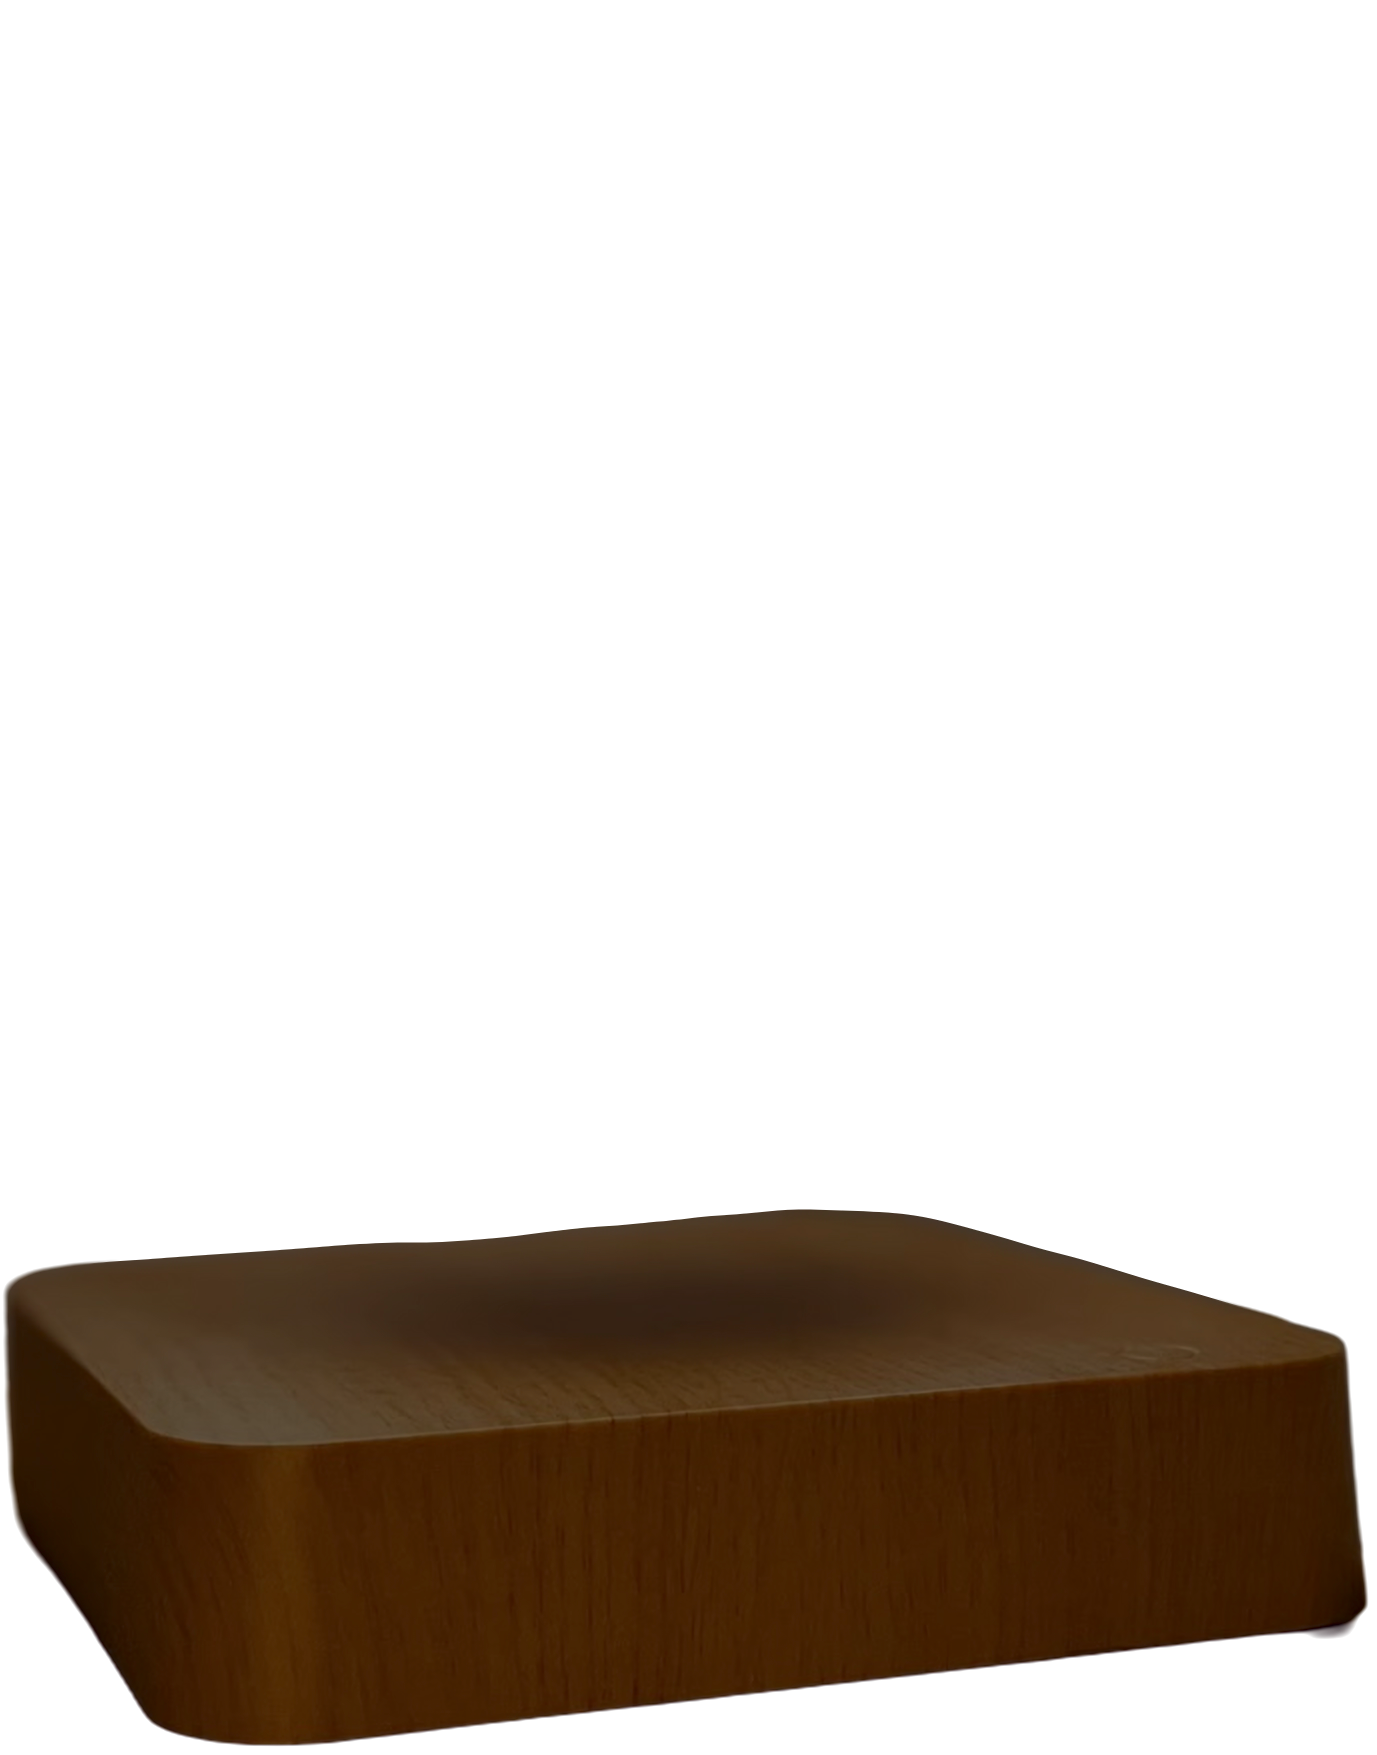
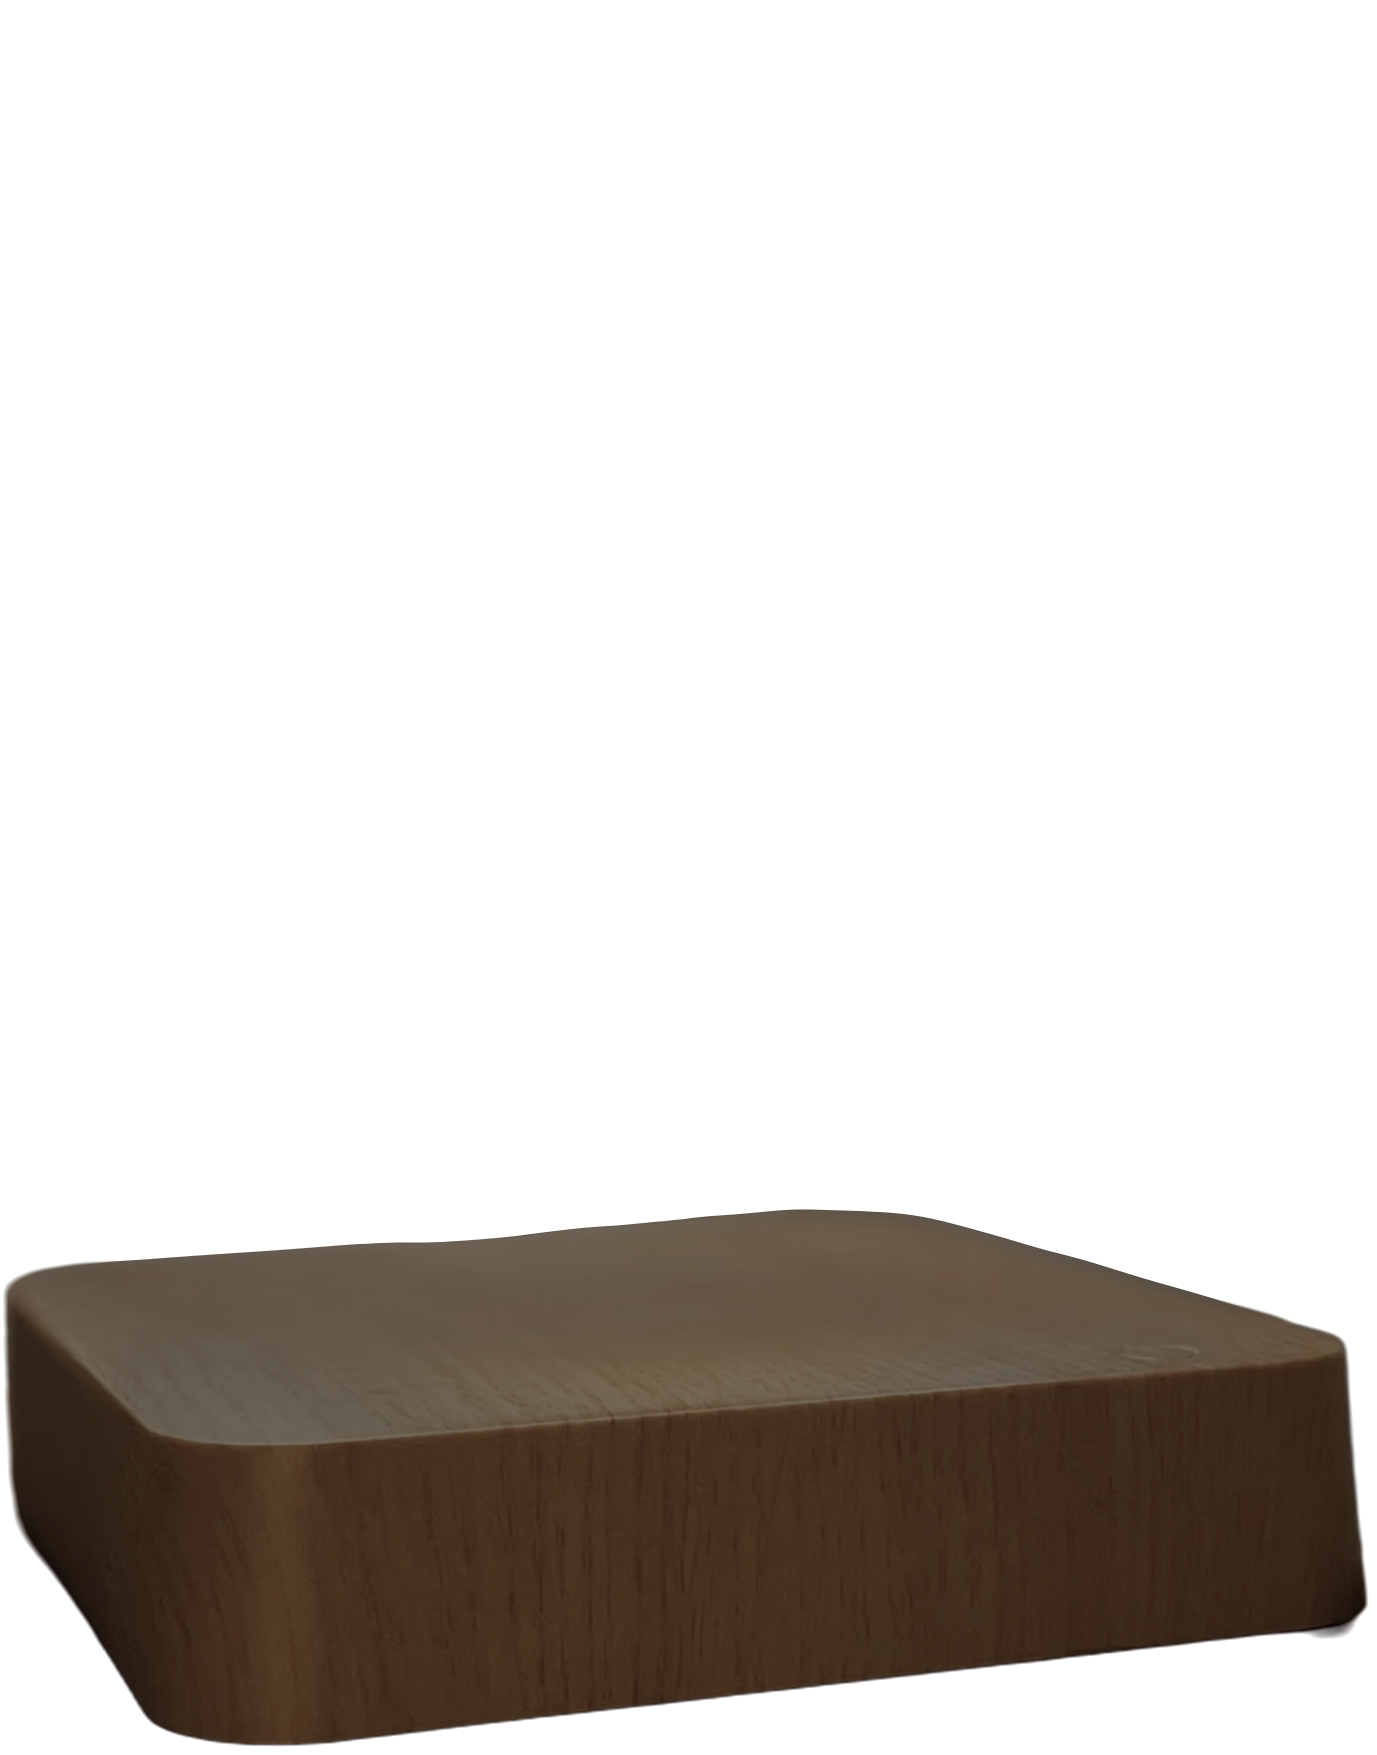
Pacchetto foto aggiornato e ritocchi al brief
- studio/input/luna-foto: nuovo pacchetto con la base spenta corretta
  (legno chiaro al buio, meno saturo); cambiano anche lampada-spenta.png
  e LEGGIMI.txt
- CLAUDE.md §8: nuovo testo del beneficio «Levita davvero»
- CLAUDE.md §3, regola 3: reinstallare Shopify CLI e dipendenze di studio/
  se l'ambiente si è azzerato

Claude-Session: https://claude.ai/code/session_01XdeqMEwLwywwrkYQa9xRiS

Changed region(s): [[0.0, 0.6769, 0.9993, 1.0]]

diff --git a/CLAUDE.md b/CLAUDE.md
@@ -40,7 +40,7 @@ Se ti serve un dato che qui non c'è, NON inventarlo: usa un testo neutro e segn
 ## 3. Regole d'oro (valgono in ogni step)
 1. Non modificare, rinominare o cancellare NESSUN file esistente del tema. Crei solo file nuovi con il prefisso «luna-», più il template templates/product.luna.json. Uniche eccezioni: aggiungere righe a .gitignore, .shopifyignore e .theme-check.yml.
 2. Alla fine di ogni step `shopify theme check` (lanciato dalla radice) deve dare 0 errori nei file luna. Gli errori già presenti nei file originali non li tocchi: li segnali.
-3. Git: all'inizio di ogni step assicurati di essere sul branch di lavoro (§1) con l'ultimo commit; alla fine di ogni step fai commit e push. Ogni passo deve poter essere annullato.
+3. Git: all'inizio di ogni step assicurati di essere sul branch di lavoro (§1) con l'ultimo commit; alla fine di ogni step fai commit e push. Ogni passo deve poter essere annullato. L'ambiente può azzerarsi tra una sessione e l'altra: se mancano Shopify CLI o le dipendenze di studio/, reinstallale prima di cominciare.
 4. Mobile first: progetta a 390 px di larghezza, poi adatta a 768 e a 1280 e oltre.
 5. Ogni testo visibile è modificabile dall'editor del tema: setting con valore predefinito uguale al copy del §8.
 6. Niente dati finti: nessuna recensione inventata, nessun contatore di visitatori o vendite, nessun countdown che riparte, scorte mostrate solo se reali (§10).
@@ -168,7 +168,7 @@ moon3d
 benefits
 - occhiello: «Perché tutti la notano»
 - H2: «Un pezzo di cielo, sul tuo comodino.»
-- «Levita davvero»: «Un campo magnetico la tiene sospesa a mezz'aria. Niente fili, niente trucchi: solo la Luna che galleggia sopra il tuo comodino.»
+- «Levita davvero»: «Un campo magnetico la tiene sospesa a mezz'aria, senza niente che la regga: solo la Luna che galleggia sopra il tuo comodino.»
 - «Luce che scalda la stanza»: «Luce calda e morbida, pensata per la sera: la accendi e la stanza cambia atmosfera.»
 - «Il regalo che non si dimentica»: «Per chi ha già tutto, per chi ama il cielo, per chi vuoi stupire. Pochi regali fanno lo stesso effetto appena si accendono.»
 
